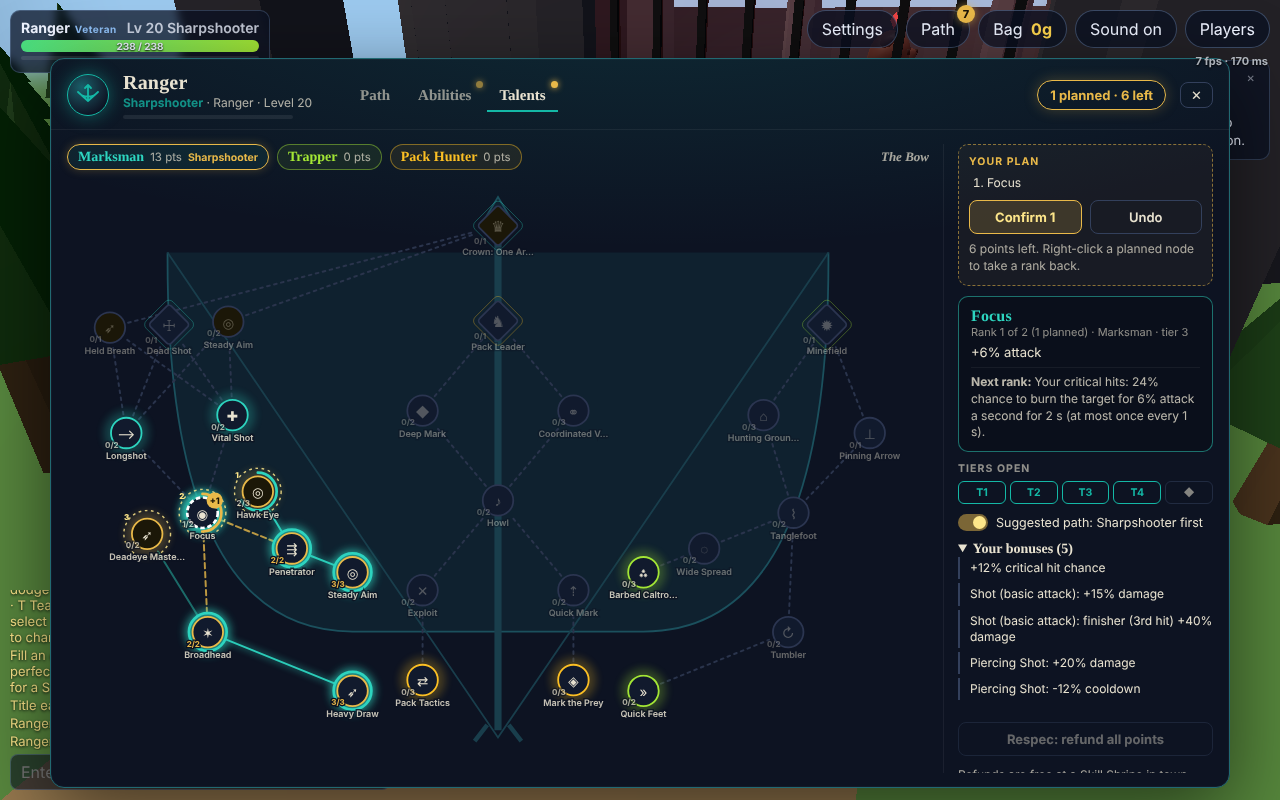
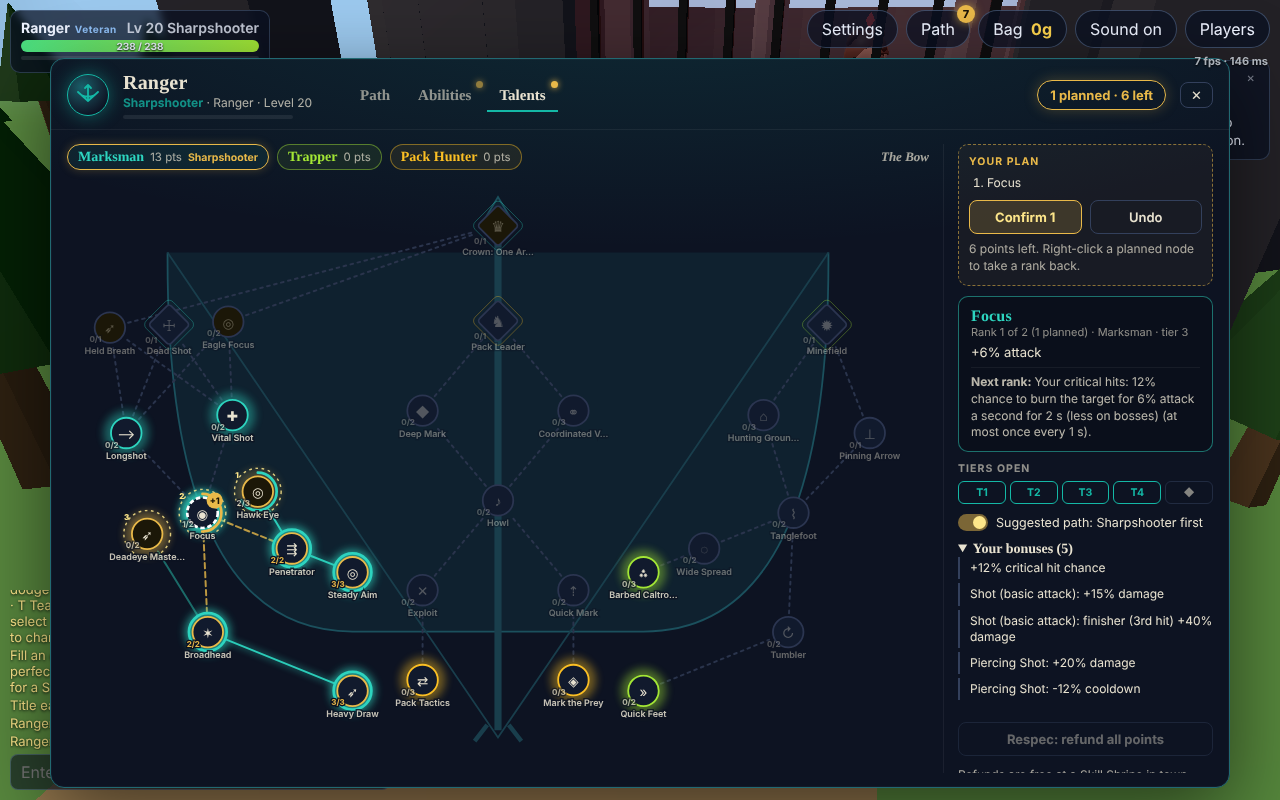
Path balance: softer rule riders, burns, bursts and marks on bosses, signature forms as sidegrades, FX_OFF tuning aid
Claude-Session: https://claude.ai/code/session_01DSVkRHLPgxfLFu5HKwLSWq

diff --git a/shared/talents.js b/shared/talents.js
@@ -459,16 +459,16 @@ export const KEYS = {
 // Every other plain stat node of a branch (2nd, 4th, ...) also carries a small, chancy rule (shared/effects.js) that
 // fits the stat, so fewer nodes are a bare number. Ranks raise the rule's chance (talentTotals).
 const RIDER = {
-  atk: { on: 'crit', do: 'burn', v: 0.06, d: 2, ch: 0.12, icd: 1 },
-  crit: { on: 'crit', do: 'mark', v: 0.05, d: 3, ch: 0.15, icd: 1 },
-  hp: { on: 'kill', do: 'heal', v: 0.02, r: 0, ch: 0.25 },
-  dr: { on: 'break', do: 'shield', v: 0.03, r: 0, d: 4, ch: 0.34 },
-  posture: { on: 'hit', do: 'posture', frac: [0.03, 0.01], ch: 0.05, icd: 1 },
-  heal: { on: 'heal', do: 'shield', v: 0.02, r: 0, to: 't', d: 4, ch: 0.12, icd: 2 },
-  haste: { on: 'kill', do: 'cdcut', v: 0.5, ch: 0.34 },
-  speed: { on: 'kill', do: 'dr', v: 0.1, d: 2, ch: 0.34 },
-  sw: { on: 'switch', do: 'team', v: 0.03, r: 12, d: 4, ch: 0.34 },
-  threat: { on: 'hit', do: 'slow', v: 0.15, d: 2, ch: 0.05, icd: 1 },
+  atk: { on: 'crit', do: 'burn', v: 0.06, d: 2, ch: 0.06, icd: 1 },
+  crit: { on: 'crit', do: 'mark', v: 0.05, d: 3, ch: 0.075, icd: 1 },
+  hp: { on: 'kill', do: 'heal', v: 0.02, r: 0, ch: 0.125 },
+  dr: { on: 'break', do: 'shield', v: 0.03, r: 0, d: 4, ch: 0.17 },
+  posture: { on: 'hit', do: 'posture', frac: [0.03, 0.01], ch: 0.025, icd: 1 },
+  heal: { on: 'heal', do: 'shield', v: 0.02, r: 0, to: 't', d: 4, ch: 0.06, icd: 2 },
+  haste: { on: 'kill', do: 'cdcut', v: 0.5, ch: 0.17 },
+  speed: { on: 'kill', do: 'dr', v: 0.1, d: 2, ch: 0.17 },
+  sw: { on: 'switch', do: 'team', v: 0.03, r: 12, d: 4, ch: 0.17 },
+  threat: { on: 'hit', do: 'slow', v: 0.15, d: 2, ch: 0.025, icd: 1 },
 };
 for (const tree of Object.values(TREES)) for (const b of tree.branches) {
   let k = 0;
@@ -517,59 +517,59 @@ const SUB2_NODES = [
   // [class, branch, subclass, II left, II right, Crown]
   ['swordsman', 'tempo', 'duelist',
     { id: 'sw_du_riposte', name: 'Cut and Turn', icon: '↺', max: 2, fx: [{ stat: 'counter', v: 8 }, RU('crit', 'cdcut', { v: 0.5, icd: 2, ch: 0.5 })] },
-    { id: 'sw_du_blur', name: 'Blur', icon: '≋', max: 1, fx: [{ sk: 'sig', cd: -10 }, RU('cast', 'dr', { v: 0.2, d: 2, sk: 'sig' })] },
+    { id: 'sw_du_blur', name: 'Blur', icon: '≋', max: 1, fx: [{ sk: 'sig', cd: -8 }, RU('cast', 'dr', { v: 0.2, d: 2, sk: 'sig' })] },
     { id: 'sw_du_crown', name: 'Crown: Untouchable', icon: '♛', max: 1, keystone: 1, desc: 'Every kill takes 3 s off your skills, and your critical hits mark their target (+10% damage taken, 4 s).', fx: [RU('kill', 'cdcut', { v: 3, icd: 1 }), RU('crit', 'mark', { v: 0.1, d: 4, icd: 1 })] }],
   ['swordsman', 'link', 'vanguard',
     { id: 'sw_va_banner', name: 'Banner Bearer', icon: '⚑', max: 2, fx: [{ stat: 'sw', v: 6 }, RU('switch', 'team', { v: 0.05, r: 12, d: 5 })] },
-    { id: 'sw_va_cleaver', name: 'Opening Cleave', icon: '⚔', max: 1, fx: [{ sk: 'sig', dmg: 12 }, RU('hit', 'posture', { frac: [0.08, 0.03], sk: 'sig', icd: 1 })] },
+    { id: 'sw_va_cleaver', name: 'Opening Cleave', icon: '⚔', max: 1, fx: [{ sk: 'sig', dmg: 8 }, RU('hit', 'posture', { frac: [0.08, 0.03], sk: 'sig', icd: 1 })] },
     { id: 'sw_va_crown', name: 'Crown: The First Blade', icon: '♛', max: 1, keystone: 1, coop: 1, desc: 'Each Break you cause rallies the party: +10% damage for 5 s within 12 m, and a shield of 5% of max health.', fx: [RU('break', 'team', { v: 0.1, r: 12, d: 5 }), RU('break', 'shield', { v: 0.05, r: 12, d: 5 })] }],
   ['guardian', 'bulwark', 'bulwark',
     { id: 'gu_bk_bastion', name: 'Living Bastion', icon: '⛨', max: 2, fx: [{ stat: 'dr', v: 2 }, RU('break', 'shield', { v: 0.05, r: 0, d: 5 })] },
-    { id: 'gu_bk_vigil', name: 'Vigil', icon: '⛉', max: 1, fx: [{ sk: 'sig', cd: -10 }, RU('cast', 'heal', { v: 0.06, r: 10, sk: 'sig' })] },
+    { id: 'gu_bk_vigil', name: 'Vigil', icon: '⛉', max: 1, fx: [{ sk: 'sig', cd: -8 }, RU('cast', 'heal', { v: 0.06, r: 10, sk: 'sig' })] },
     { id: 'gu_bk_crown', name: 'Crown: The Unmoving', icon: '♛', max: 1, keystone: 1, coop: 1, desc: 'Using any skill shields you and allies within 8 m for 4% of max health (once every 4 s); kills shield you for 6%.', fx: [RU('cast', 'shield', { v: 0.04, r: 8, d: 5, icd: 4 }), RU('kill', 'shield', { v: 0.06, r: 0, d: 5, icd: 2 })] }],
   ['guardian', 'warlord', 'warlord',
     { id: 'gu_wl_dread', name: 'Dread', icon: '☗', max: 2, fx: [{ stat: 'posture', v: 5 }, RU('hit', 'slow', { v: 0.2, d: 2, ch: 0.15 })] },
-    { id: 'gu_wl_command', name: 'Command', icon: '⚑', max: 1, fx: [{ sk: 'sig', dmg: 12 }, RU('cast', 'team', { v: 0.08, r: 12, d: 6, sk: 'sig' })] },
+    { id: 'gu_wl_command', name: 'Command', icon: '⚑', max: 1, fx: [{ sk: 'sig', dmg: 8 }, RU('cast', 'team', { v: 0.08, r: 12, d: 6, sk: 'sig' })] },
     { id: 'gu_wl_crown', name: 'Crown: Conqueror', icon: '♛', max: 1, keystone: 1, desc: 'Every Break you cause stuns the enemy 1 s longer and takes 2 s off your skills.', fx: [RU('break', 'stun', { d: 1 }), RU('break', 'cdcut', { v: 2 })] }],
   ['cleric', 'mercy', 'lightbringer',
     { id: 'cl_lb_halo', name: 'Halo', icon: '◯', max: 2, fx: [{ stat: 'heal', v: 4 }, RU('heal', 'shield', { v: 0.03, r: 0, to: 't', d: 4, icd: 3 })] },
-    { id: 'cl_lb_zenith', name: 'Zenith', icon: '☀', max: 1, fx: [{ sk: 'sig', cd: -12 }, RU('cast', 'cdcut', { v: 2, sk: 'sig' })] },
+    { id: 'cl_lb_zenith', name: 'Zenith', icon: '☀', max: 1, fx: [{ sk: 'sig', cd: -8 }, RU('cast', 'cdcut', { v: 2, sk: 'sig' })] },
     { id: 'cl_lb_crown', name: 'Crown: Sunrise', icon: '♛', max: 1, keystone: 1, coop: 1, desc: 'Your heals also give the party +6% damage for 5 s within 12 m (once every 3 s), and each kill heals you and allies within 12 m for 4%.', fx: [RU('heal', 'team', { v: 0.06, r: 12, d: 5, icd: 3 }), RU('kill', 'heal', { v: 0.04, r: 12, icd: 2 })] }],
   ['cleric', 'judgement', 'inquisitor',
     { id: 'cl_iq_brand', name: 'Brand', icon: '✶', max: 2, fx: [{ stat: 'crit', v: 2 }, RU('crit', 'burn', { v: 0.1, d: 3, icd: 1 })] },
-    { id: 'cl_iq_sentence', name: 'Sentence', icon: '⚚', max: 1, fx: [{ sk: 'sig', dmg: 12 }, RU('hit', 'mark', { v: 0.08, d: 4, sk: 'sig' })] },
+    { id: 'cl_iq_sentence', name: 'Sentence', icon: '⚚', max: 1, fx: [{ sk: 'sig', dmg: 8 }, RU('hit', 'mark', { v: 0.08, d: 4, sk: 'sig' })] },
     { id: 'cl_iq_crown', name: 'Crown: Final Judgement', icon: '♛', max: 1, keystone: 1, desc: 'Your critical hits burst around the target for 50% attack (once a second), and kills take 2 s off your skills.', fx: [RU('crit', 'burst', { mult: 0.5, r: 3, icd: 1 }), RU('kill', 'cdcut', { v: 2, icd: 1 })] }],
   ['ranger', 'marksman', 'sharpshooter',
     { id: 'rg_ss_steady', name: 'Eagle Focus', icon: '◎', max: 2, fx: [{ stat: 'crit', v: 2 }, RU('crit', 'mark', { v: 0.06, d: 3, icd: 1 })] },
-    { id: 'rg_ss_breath', name: 'Held Breath', icon: '➶', max: 1, fx: [{ sk: 'sig', cd: -10 }, RU('crit', 'cdcut', { v: 1, sk: 'sig' })] },
+    { id: 'rg_ss_breath', name: 'Held Breath', icon: '➶', max: 1, fx: [{ sk: 'sig', cd: -8 }, RU('crit', 'cdcut', { v: 1, sk: 'sig' })] },
     { id: 'rg_ss_crown', name: 'Crown: One Arrow', icon: '♛', max: 1, keystone: 1, desc: 'Kills refund 3 s of your skills; your critical hits break 8% of the target\'s posture (3% bosses).', fx: [RU('kill', 'cdcut', { v: 3, icd: 1 }), RU('crit', 'posture', { frac: [0.08, 0.03], icd: 0.5 })] }],
   ['ranger', 'trapper', 'trapmaster',
     { id: 'rg_tm_caltrops', name: 'Caltrops', icon: '⌗', max: 2, fx: [{ stat: 'speed', v: 2 }, RU('hit', 'slow', { v: 0.2, d: 2, ch: 0.15 })] },
-    { id: 'rg_tm_springs', name: 'Spring Net', icon: '⇲', max: 1, fx: [{ sk: 'sig', cd: -10 }, RU('cast', 'pull', { r: 8, v: 1.5, sk: 'sig' })] },
+    { id: 'rg_tm_springs', name: 'Spring Net', icon: '⇲', max: 1, fx: [{ sk: 'sig', cd: -8 }, RU('cast', 'pull', { r: 8, v: 1.5, sk: 'sig' })] },
     { id: 'rg_tm_crown', name: 'Crown: The Killing Ground', icon: '♛', max: 1, keystone: 1, coop: 1, desc: 'Each Break you cause marks the enemy (+12% damage taken, 5 s) and slows enemies near it.', fx: [RU('break', 'mark', { v: 0.12, d: 5 }), RU('break', 'slow', { v: 0.4, d: 4 })] }],
   ['berserker', 'carnage', 'reaver',
     { id: 'bz_rv_frenzy', name: 'Bloodied Edge', icon: '⚔', max: 2, fx: [{ stat: 'atk', v: 2 }, RU('kill', 'rage', { v: 8 })] },
-    { id: 'bz_rv_storm', name: 'Axe Storm', icon: '❂', max: 1, fx: [{ sk: 'sig', dmg: 12 }, RU('kill', 'cdcut', { v: 2, sk: 'sig' })] },
+    { id: 'bz_rv_storm', name: 'Axe Storm', icon: '❂', max: 1, fx: [{ sk: 'sig', dmg: 8 }, RU('kill', 'cdcut', { v: 2, sk: 'sig' })] },
     { id: 'bz_rv_crown', name: 'Crown: The Red Harvest', icon: '♛', max: 1, keystone: 1, desc: 'Each kill bursts around the fallen for 60% attack (once a second) and gives 10 Rage.', fx: [RU('kill', 'burst', { mult: 0.6, r: 4, icd: 1 }), RU('kill', 'rage', { v: 10 })] }],
   ['berserker', 'bloodlust', 'bloodknight',
     { id: 'bz_bk_thirst', name: 'Thirst', icon: '♥', max: 2, fx: [{ stat: 'hp', v: 3 }, RU('crit', 'heal', { v: 0.02, r: 0, icd: 1 })] },
-    { id: 'bz_bk_oath', name: 'Blood Oath', icon: '✚', max: 1, fx: [{ sk: 'sig', cd: -10 }, RU('cast', 'dr', { v: 0.2, d: 3, sk: 'sig' })] },
+    { id: 'bz_bk_oath', name: 'Blood Oath', icon: '✚', max: 1, fx: [{ sk: 'sig', cd: -8 }, RU('cast', 'dr', { v: 0.2, d: 3, sk: 'sig' })] },
     { id: 'bz_bk_crown', name: 'Crown: Crimson Lord', icon: '♛', max: 1, keystone: 1, desc: 'Each kill heals you for 6% of max health; Breaks you cause shield you for 8%.', fx: [RU('kill', 'heal', { v: 0.06, r: 0 }), RU('break', 'shield', { v: 0.08, r: 0, d: 5 })] }],
   ['lancer', 'dragoon', 'dragoon',
     { id: 'ln_dg_updraft', name: 'Updraft', icon: '↟', max: 2, fx: [{ stat: 'posture', v: 5 }, RU('break', 'cdcut', { v: 1.5 })] },
-    { id: 'ln_dg_wings', name: 'Wings', icon: '➘', max: 1, fx: [{ sk: 'sig', cd: -10 }, RU('hit', 'stun', { d: 0.5, sk: 'sig', icd: 1 })] },
+    { id: 'ln_dg_wings', name: 'Wings', icon: '➘', max: 1, fx: [{ sk: 'sig', cd: -8 }, RU('hit', 'stun', { d: 0.5, sk: 'sig', icd: 1 })] },
     { id: 'ln_dg_crown', name: 'Crown: Skyfall', icon: '♛', max: 1, keystone: 1, desc: 'Every Break you cause bursts for 80% attack around the enemy; kills take 2 s off your skills.', fx: [RU('break', 'burst', { mult: 0.8, r: 4 }), RU('kill', 'cdcut', { v: 2, icd: 1 })] }],
   ['lancer', 'phalanx', 'phalanx',
     { id: 'ln_ph_shieldwall', name: 'Shieldwall', icon: '▣', max: 2, fx: [{ stat: 'dr', v: 2 }, RU('switch', 'shield', { v: 0.04, r: 8, d: 5 })] },
-    { id: 'ln_ph_brace', name: 'Brace', icon: '⛊', max: 1, fx: [{ sk: 'sig', cd: -10 }, RU('cast', 'shield', { v: 0.05, r: 8, d: 5, sk: 'sig' })] },
+    { id: 'ln_ph_brace', name: 'Brace', icon: '⛊', max: 1, fx: [{ sk: 'sig', cd: -8 }, RU('cast', 'shield', { v: 0.05, r: 8, d: 5, sk: 'sig' })] },
     { id: 'ln_ph_crown', name: 'Crown: The Living Wall', icon: '♛', max: 1, keystone: 1, coop: 1, desc: 'Using any skill gives you and allies within 8 m 10% less damage taken for 3 s (once every 5 s); Breaks pull enemies in.', fx: [RU('cast', 'dr', { v: 0.1, d: 3, icd: 5 }), RU('break', 'pull', { r: 7, v: 1.5 })] }],
   ['bard', 'maestro', 'virtuoso',
     { id: 'bd_vi_tempo', name: 'Rubato', icon: '⧗', max: 2, fx: [{ stat: 'haste', v: 2 }, RU('switch', 'cdcut', { v: 1 })] },
-    { id: 'bd_vi_bravo', name: 'Bravo', icon: '♫', max: 1, fx: [{ sk: 'sig', cd: -12 }, RU('cast', 'heal', { v: 0.05, r: 14, sk: 'sig' })] },
+    { id: 'bd_vi_bravo', name: 'Bravo', icon: '♫', max: 1, fx: [{ sk: 'sig', cd: -8 }, RU('cast', 'heal', { v: 0.05, r: 14, sk: 'sig' })] },
     { id: 'bd_vi_crown', name: 'Crown: Magnum Opus', icon: '♛', max: 1, keystone: 1, coop: 1, desc: 'Using any skill gives the party within 14 m +5% damage for 5 s (once every 4 s); kills take 1.5 s off your skills.', fx: [RU('cast', 'team', { v: 0.05, r: 14, d: 5, icd: 4 }), RU('kill', 'cdcut', { v: 1.5, icd: 1 })] }],
   ['bard', 'discord', 'siren',
     { id: 'bd_si_echo', name: 'Echo', icon: '▼', max: 2, fx: [{ stat: 'posture', v: 5 }, RU('hit', 'mark', { v: 0.05, d: 3, ch: 0.15 })] },
-    { id: 'bd_si_shriek', name: 'Shriek', icon: '♪', max: 1, fx: [{ sk: 'sig', dmg: 12 }, RU('hit', 'stun', { d: 0.6, sk: 'sig', icd: 1 })] },
+    { id: 'bd_si_shriek', name: 'Shriek', icon: '♪', max: 1, fx: [{ sk: 'sig', dmg: 8 }, RU('hit', 'stun', { d: 0.6, sk: 'sig', icd: 1 })] },
     { id: 'bd_si_crown', name: 'Crown: Song of Ruin', icon: '♛', max: 1, keystone: 1, desc: 'Each Break you cause marks the enemy (+12% damage taken, 5 s) and slows those around it by 40%.', fx: [RU('break', 'mark', { v: 0.12, d: 5 }), RU('break', 'slow', { v: 0.4, d: 4 })] }],
 ];
 for (const [cls, bid, sub, a, b, c] of SUB2_NODES) {

diff --git a/shared/subclasses.js b/shared/subclasses.js
@@ -141,12 +141,12 @@ export function specBlock(path, cls, lvl, sub, gold) {
 const form = (id, name, desc, n, extra = {}) => ({ id, name, desc, n, sig: 1, ...extra });
 export const SIG_EVOS = {
   flashstep: {
-    A: form('thousandcuts', 'A Thousand Cuts', 'Land and cut five times, faster: more total damage where you arrive.', { cuts: 5, cut: 0.6, gap: 0.12 }),
+    A: form('thousandcuts', 'A Thousand Cuts', 'Land and cut five times, faster and lighter: the same damage spread over more hits.', { cuts: 5, cut: 0.45, gap: 0.12 }),
     B: form('longstep', 'Long Step', 'Blink up to 11 m and stay untouchable longer; two heavy cuts where you land.', { len: 11, iframes: 0.7, cuts: 2, cut: 1.0 }),
   },
   rallycut: {
     A: form('breakingcut', 'Breaking Cut', 'A heavier cut that tears almost half the target\'s posture off (a smaller rally).', { mult: 2.4, frac: [0.45, 0.15], dmg: 0.08 }, { coop: 1 }),
-    B: form('warbanner', 'Warbanner Cut', 'A lighter cut, but the rally reaches 16 m: +18% damage for 8 s.', { mult: 1.6, allyR: 16, dmg: 0.18, d: 8 }, { coop: 1 }),
+    B: form('warbanner', 'Warbanner Cut', 'A lighter cut, but the rally reaches 16 m: +15% damage for 7 s.', { mult: 1.6, allyR: 16, dmg: 0.15, d: 7 }, { coop: 1 }),
   },
   aegisline: {
     A: form('bastion', 'Bastion', 'Hold the line yourself: you take 60% less damage for 6 s (allies within 8 m 25% less).', { r: 8, self: 0.6, ally: 0.25, d: 6 }),
@@ -161,11 +161,11 @@ export const SIG_EVOS = {
     B: form('firstlight', 'First Light', 'A softer, wider light (18% within 18 m) that comes back sooner.', { r: 18, frac: 0.18 }, { cd: 0.8 }),
   },
   judgeray: {
-    A: form('finalverdict', 'Final Verdict', 'A narrow ray that hits much harder and breaks more posture.', { mult: 3.0, width: 1.1, frac: [0.25, 0.1] }),
+    A: form('finalverdict', 'Final Verdict', 'A narrow ray that hits much harder and breaks more posture.', { mult: 2.7, width: 1.1, frac: [0.25, 0.1] }),
     B: form('widejudgement', 'Wide Judgement', 'A 3 m wide beam: lighter, but it catches a whole pack.', { width: 3.0, len: 12, mult: 1.7 }),
   },
   deadeye: {
-    A: form('heartseeker', 'Heartseeker', 'Draw longer (0.8 s) for a devastating shot and a big posture hit.', { draw: 0.8, mult: 4.2, frac: [0.3, 0.12] }),
+    A: form('heartseeker', 'Heartseeker', 'Draw longer (0.8 s) for a devastating shot and a big posture hit.', { draw: 0.8, mult: 3.6, frac: [0.3, 0.12] }),
     B: form('snapshot', 'Snap Shot', 'Barely a draw (0.15 s) and back sooner; a lighter arrow.', { draw: 0.15, mult: 2.4 }, { cd: 0.72 }),
   },
   snarefield: {
@@ -173,15 +173,15 @@ export const SIG_EVOS = {
     B: form('widenet', 'Wide Net', 'A 7 m net: a shorter hold, but the slow lasts 7 s.', { r: 7, stun: 1.4, slowFor: 7 }),
   },
   rampage: {
-    A: form('endlessrampage', 'Endless Rampage', 'Five spins instead of three, a little faster.', { spins: 5, gap: 0.3, mult: 1.0 }),
-    B: form('executionerspin', 'Executioner Spin', 'Two spins; the second lands like an execution.', { spins: 2, mult: 1.2, last: 2.6 }),
+    A: form('endlessrampage', 'Endless Rampage', 'Five lighter spins instead of three, a little faster: longer to keep a crowd hit.', { spins: 5, gap: 0.3, mult: 0.7 }),
+    B: form('executionerspin', 'Executioner Spin', 'Two spins; the second lands like an execution.', { spins: 2, mult: 1.1, last: 2.6 }),
   },
   crimsonpact: {
     A: form('bloodfeast', 'Blood Feast', 'Heal for 60% of the damage (up to 30% of your health); a lighter cleave.', { mult: 1.8, leech: 0.6, cap: 0.3 }),
-    B: form('crimsonedge', 'Crimson Edge', 'A wider, much heavier cleave that heals less.', { r: 5, mult: 2.8, leech: 0.25 }),
+    B: form('crimsonedge', 'Crimson Edge', 'A wider, much heavier cleave that heals less.', { r: 5, mult: 2.5, leech: 0.25 }),
   },
   wyverndive: {
-    A: form('meteordive', 'Meteor Dive', 'Hang in the air longer and land like a meteor: 6 m, heavy damage and posture.', { air: 0.8, r: 6, mult: 3.2, frac: [0.35, 0.12] }, { coop: 1 }),
+    A: form('meteordive', 'Meteor Dive', 'Hang in the air longer and land like a meteor: 6 m, heavy damage and posture.', { air: 0.8, r: 6, mult: 2.8, frac: [0.35, 0.12] }, { coop: 1 }),
     B: form('swiftdive', 'Swift Dive', 'A quick hop that lands lighter but comes back much sooner.', { air: 0.4, mult: 2.0 }, { cd: 0.73 }),
   },
   spearwall: {
@@ -189,7 +189,7 @@ export const SIG_EVOS = {
     B: form('spearhedge', 'Spear Hedge', 'A 6 m hedge of spears: heavier, throws enemies further and stuns longer.', { r: 6, mult: 2.2, knock: 3, stun: 1.6 }),
   },
   encore: {
-    A: form('ovation', 'Standing Ovation', 'The crowd roars: +18% damage for 8 s (3 s back on skills).', { dmg: 0.18, d: 8, cut: 3 }, { coop: 1 }),
+    A: form('ovation', 'Standing Ovation', 'The crowd roars: +14% damage for 7 s (3 s back on skills).', { dmg: 0.14, d: 7, cut: 3 }, { coop: 1 }),
     B: form('dacapo', 'Da Capo', 'From the top: 7 s back on every skill, a small buff, and it comes back sooner.', { cut: 7, dmg: 0.06 }, { cd: 0.85 }),
   },
   sirenwail: {

diff --git a/server/effects.js b/server/effects.js
@@ -6,6 +6,7 @@
 import { AWAKEN, awakening } from '../shared/mastery.js';
 import { skKey } from '../shared/talents.js';
 
+const FX_OFF = !!process.env.FX_OFF;
 const dist = (a, b) => Math.hypot(a.x - b.x, a.z - b.z);
 const r2 = v => Math.round(v * 100) / 100;
 
@@ -23,7 +24,7 @@ export const EffectMethods = {
   },
   // Fire p's rules for an event. ctx: { m (the enemy), t (the player healed) }.
   fxOn(p, on, sk, ctx = {}) {
-    if (!p || p.dead || this._fxDepth || !this.players.has(p.id) || this.duelOf?.(p)) return; // (no rules in a duel)
+    if (!p || p.dead || this._fxDepth || !this.players.has(p.id) || this.duelOf?.(p) || FX_OFF) return; // (no rules in a duel; FX_OFF=1: none at all, a tuning aid)
     const list = this.fxRules(p, on, sk);
     if (!list.length) return;
     const now = this.time, icd = (p.fxIcd ||= {});
@@ -44,7 +45,7 @@ export const EffectMethods = {
         if (!live) return;
         // A lingering effect, not use time (effectLater: no longer cooldown), and not the skill's own hits: the ticks
         // carry no skill (no skill talents, mastery or chain steps), so the skill markers are cleared while queuing them.
-        const per = atk * r.v, ticks = Math.max(1, Math.round(r.d)), tp = this._tp, tsk = p._tsk, sig = this._sigId;
+        const per = atk * r.v * (m.def.boss ? 0.6 : 1), ticks = Math.max(1, Math.round(r.d)), tp = this._tp, tsk = p._tsk, sig = this._sigId;
         this._tp = null; p._tsk = null; this._sigId = null;
         try {
           for (let i = 1; i <= ticks; i++) (this.effectLater || this.schedule).call(this, i, () => {
@@ -58,11 +59,11 @@ export const EffectMethods = {
       case 'slow': if (live) { this.slowMob?.(m, r.v, r.d); ev(); } return;
       case 'stun': if (live) { m.stunUntil = Math.max(m.stunUntil || 0, now + r.d * (m.def.boss ? 0.3 : 1)); ev(); } return;
       case 'posture': if (live) { this.addPosture(m, p, 0, { frac: r.frac }); ev(); } return;
-      case 'mark': if (live) { m.fxMark = { until: now + r.d, v: Math.max(r.v, now < (m.fxMark?.until || 0) ? m.fxMark.v : 0) }; ev({ d: r.d }); } return;
+      case 'mark': if (live) { const v = r.v * (m.def.boss ? 0.5 : 1); m.fxMark = { until: now + r.d, v: Math.max(v, now < (m.fxMark?.until || 0) ? m.fxMark.v : 0) }; ev({ d: r.d }); } return; // (bosses: half)
       case 'burst': {
         if (!live) return;
         const x = m.x, z = m.z;
-        this.hitCircle(p, x, z, r.r, atk * r.mult, { threat: 1 });
+        this.hitCircle(p, x, z, r.r, atk * r.mult * (m.def.boss ? 0.6 : 1), { threat: 1 }); // (centred on a boss: less)
         return ev({ r: r.r });
       }
       case 'pull': {

diff --git a/shared/effects.js b/shared/effects.js
@@ -8,7 +8,7 @@
 //   'crit' 'kill' 'break' 'switch'  your critical hit, a kill, a Break you cause, a Switch you land
 //   'heal'   you heal someone (the amount restored)
 // do (what it does; numbers x attack power where there is damage):
-//   burn   { v: x atk per second, d }      on the target            slow { v: 0-1, d }    stun { d } (bosses 30%)
+//   burn   { v: x atk per second, d }      on the target (burn, burst: 60% on a boss; mark: half)           slow { v: 0-1, d }    stun { d } (bosses 30%)
 //   posture{ frac: [normal, boss] }        mark { v: +taken, d }    burst{ mult, r } around the target
 //   pull   { r, v: metres }  enemies near the target toward it      shield { v: x max hp, r (0: you), d, to: 't' (the one healed) }
 //   heal   { v: x max hp, r (0: you) }      team { v: +damage, r, d } (you and allies)
@@ -21,12 +21,12 @@ const pct = v => `${Math.round(v * 100)}%`;
 const ON_TEXT = { cast: 'When you use it', hit: 'Its hits', crit: 'Your critical hits', kill: 'Each kill', break: 'Each Break you cause', switch: 'Each Switch you land', heal: 'Your heals' };
 const near = r => (r ? `you and allies within ${r} m` : 'you');
 const DO_TEXT = {
-  burn: e => `burn the target for ${pct(e.v)} attack a second for ${e.d} s`,
+  burn: e => `burn the target for ${pct(e.v)} attack a second for ${e.d} s (less on bosses)`,
   slow: e => `slow the target by ${pct(e.v)} for ${e.d} s`,
   stun: e => `stun the target for ${e.d} s`,
   posture: e => `break ${pct(e.frac[0])} more of its posture (${pct(e.frac[1])} on bosses)`,
-  mark: e => `mark the target: it takes ${pct(e.v)} more damage for ${e.d} s`,
-  burst: e => `burst around the target for ${pct(e.mult)} attack (${e.r} m)`,
+  mark: e => `mark the target: it takes ${pct(e.v)} more damage for ${e.d} s (half on bosses)`,
+  burst: e => `burst around the target for ${pct(e.mult)} attack (${e.r} m; less around a boss)`,
   pull: e => `pull enemies within ${e.r} m toward the target`,
   shield: e => `shield ${e.to === 't' ? 'the one healed' : near(e.r)} for ${pct(e.v)} of max health (${e.d} s)`,
   heal: e => `heal ${near(e.r)} for ${pct(e.v)} of max health`,
